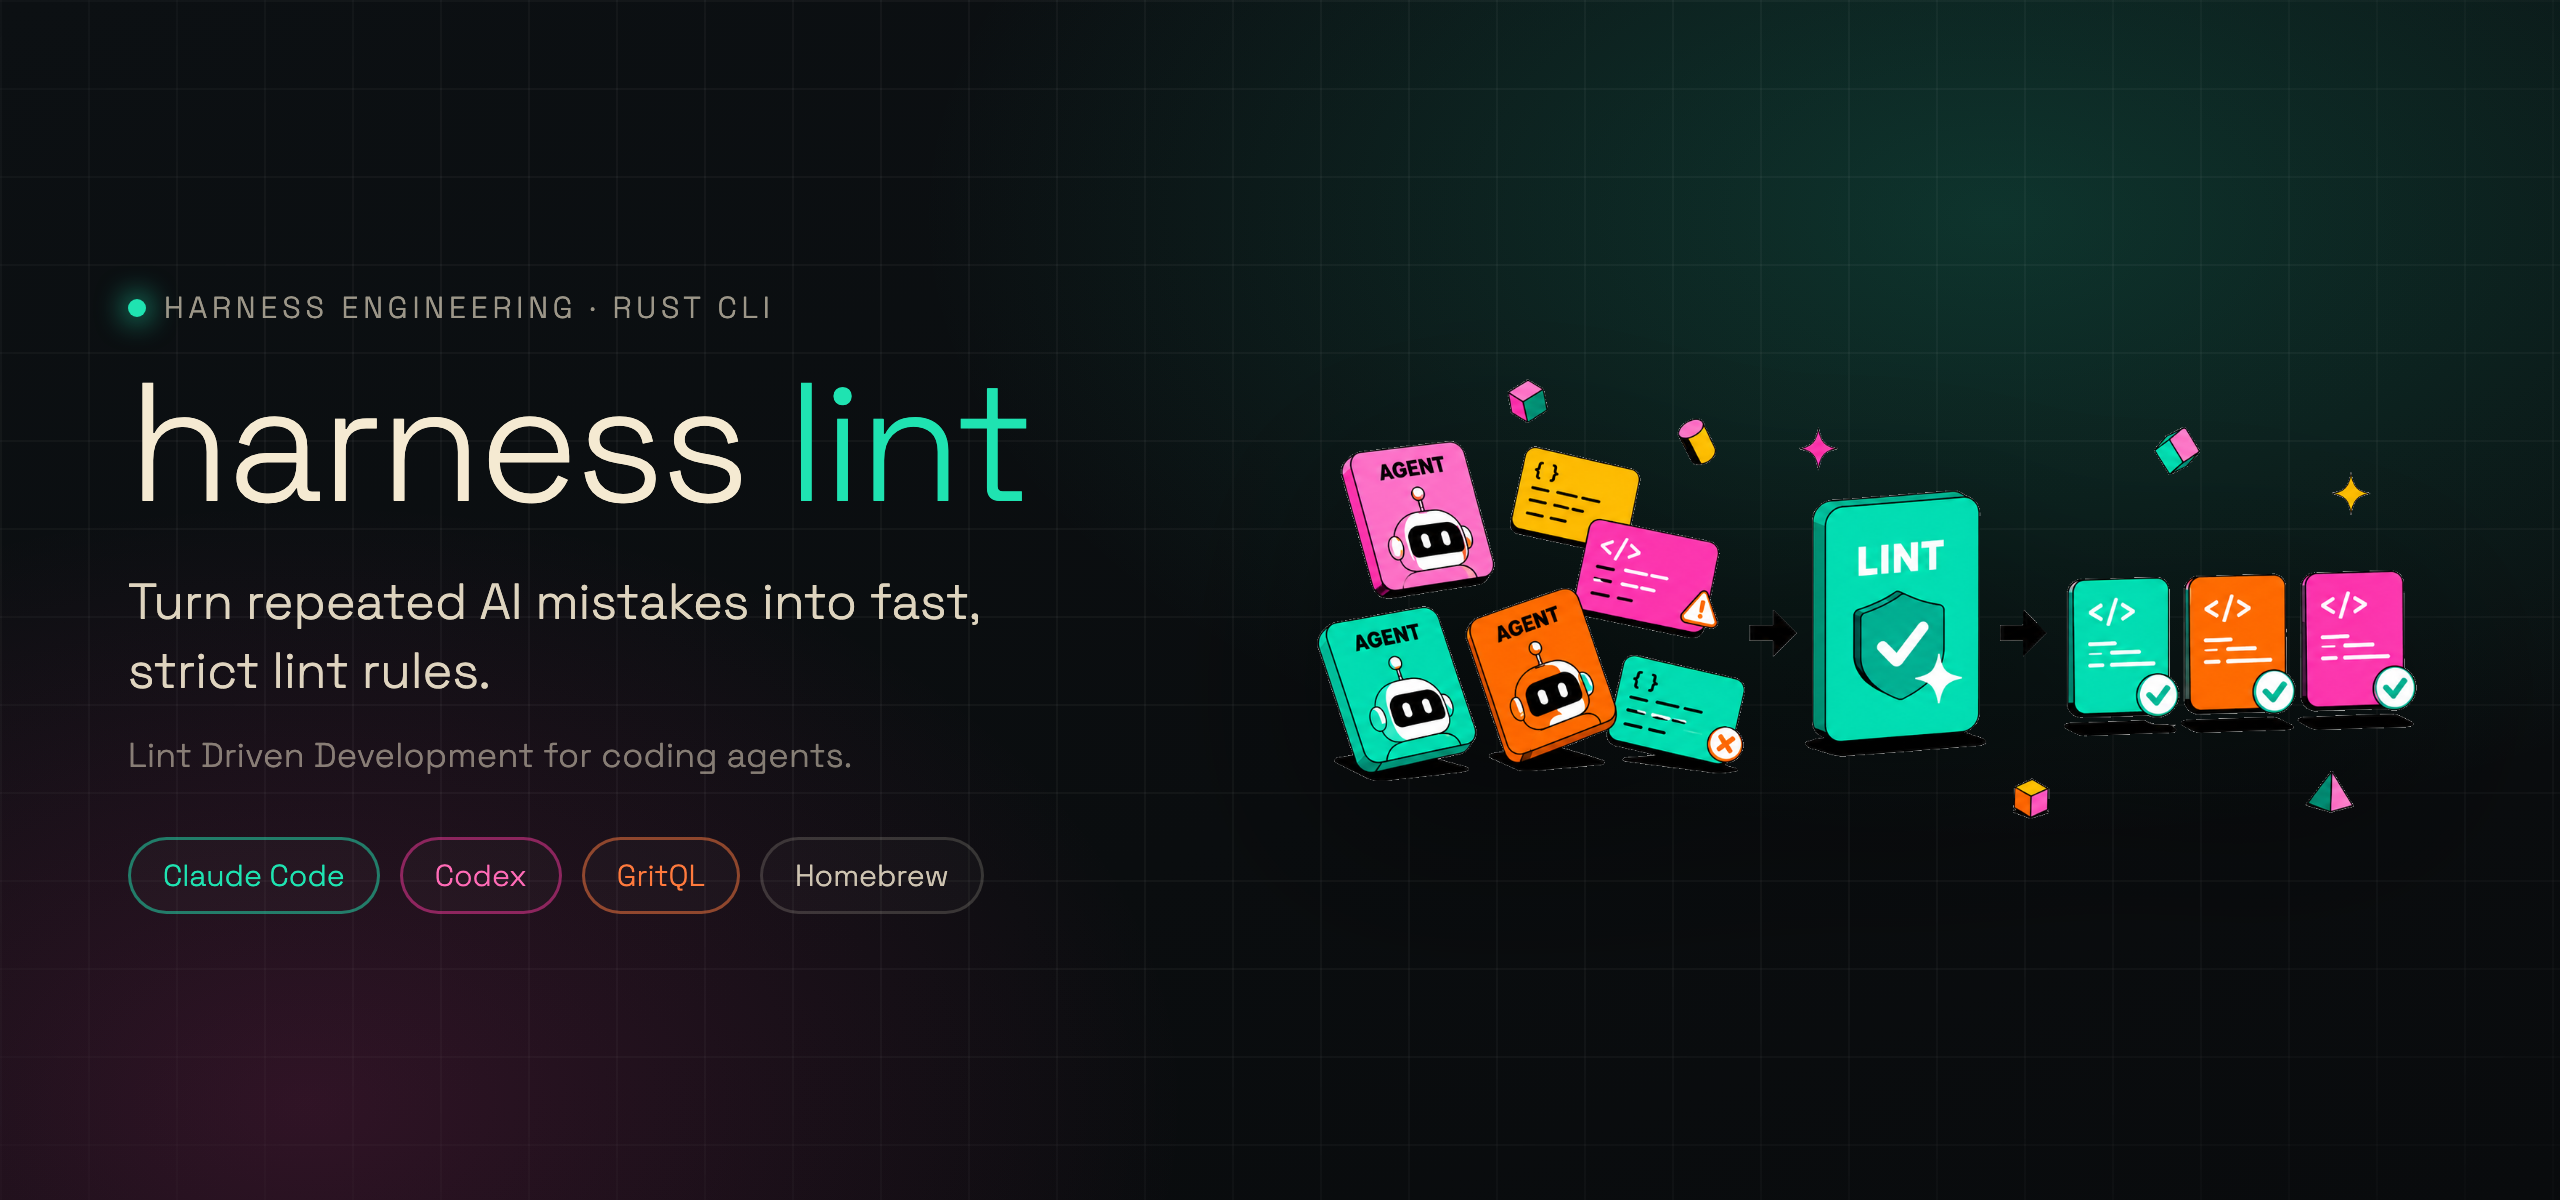
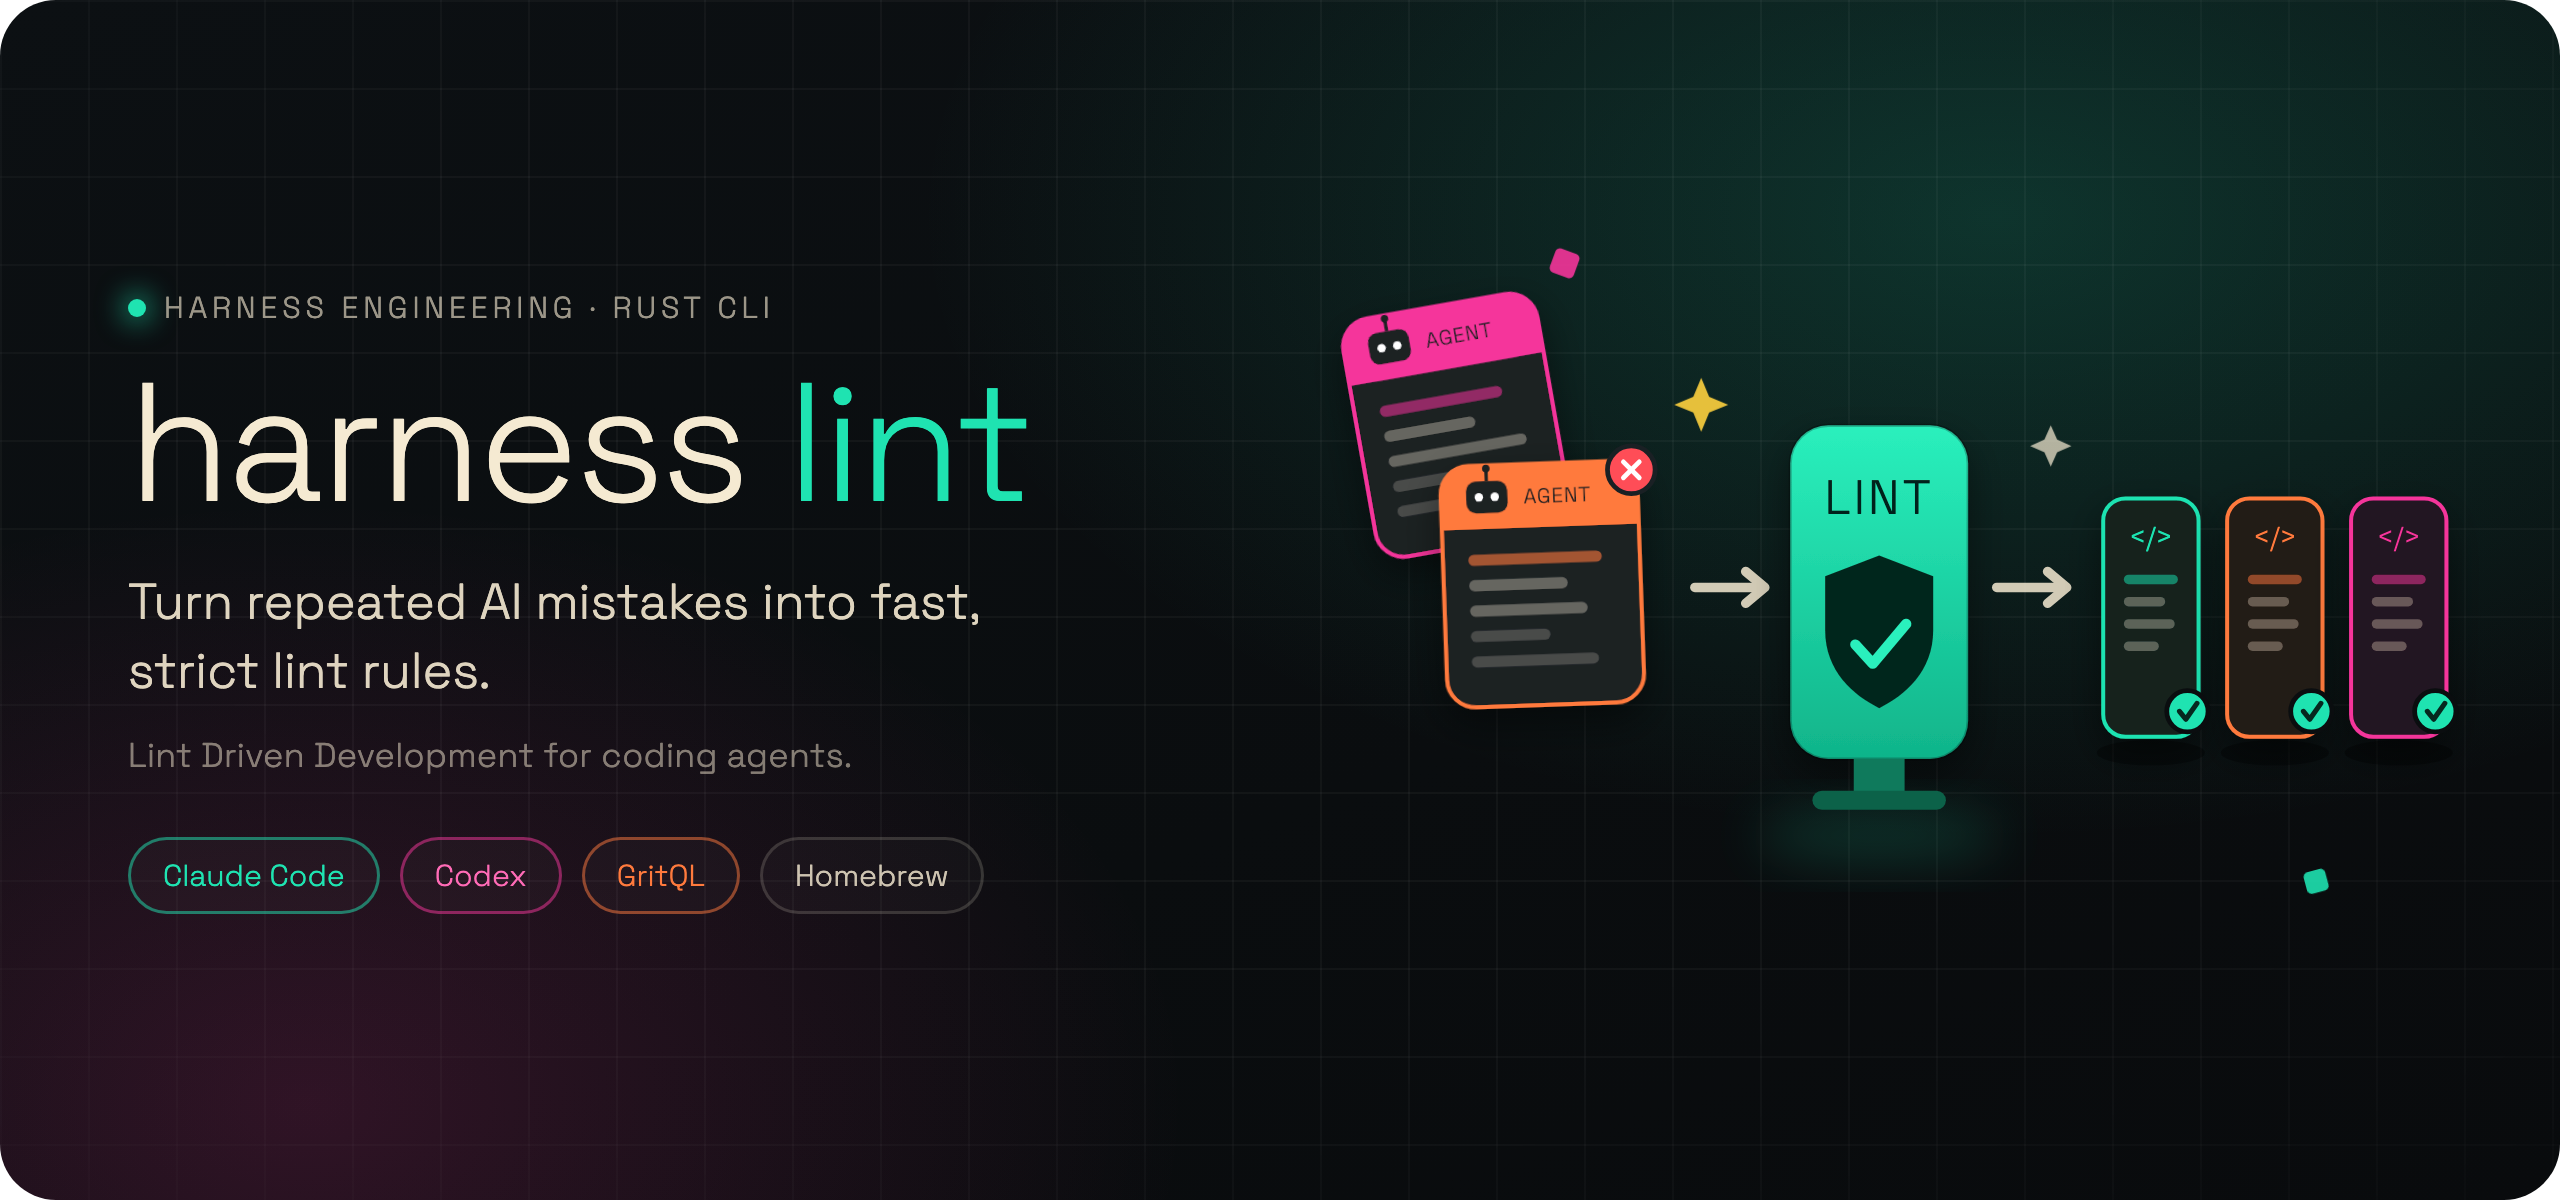
docs: redraw hero illustration as native SVG with rounded corners
Replace the imported cartoon artwork with a hand-built SVG illustration
that shares the banner's flat monoline style: scattered AGENT cards with
uneven code and an error badge, a glowing LINT gate, and clean output
cards with pass checks. Export with rounded transparent corners so the
banner reads as an intentional card on both light and dark GitHub themes
(no hard rectangular edge).

Claude-Session: https://claude.ai/code/session_012nRn9ztAujRpyAh787uXSe

diff --git a/assets/harness-lint-hero.html b/assets/harness-lint-hero.html
@@ -28,11 +28,13 @@
       body {
         margin: 0;
         padding: 0;
+        background: transparent;
       }
 
       .stage {
         width: 1280px;
         height: 600px;
+        border-radius: 28px;
         background:
           radial-gradient(
             900px 520px at 78% 18%,
@@ -51,7 +53,6 @@
         color: var(--cream);
       }
 
-      /* faint grid */
       .stage::before {
         content: "";
         position: absolute;
@@ -70,8 +71,8 @@
         display: grid;
         grid-template-columns: 1fr 1fr;
         align-items: center;
-        padding: 0 64px;
-        gap: 28px;
+        padding: 0 56px 0 64px;
+        gap: 16px;
       }
 
       .eyebrow {
@@ -159,11 +160,10 @@
         justify-content: center;
       }
 
-      .art img {
-        width: 108%;
-        max-width: none;
+      .art svg {
+        width: 100%;
         height: auto;
-        filter: drop-shadow(0 26px 50px rgba(0, 0, 0, 0.55));
+        overflow: visible;
       }
     </style>
   </head>
@@ -182,8 +182,148 @@
             <span class="chip">Homebrew</span>
           </div>
         </div>
+
         <div class="art">
-          <img src="./harness-lint-readme.illustration.png" alt="agents to lint to clean code" />
+          <svg viewBox="0 0 720 520" fill="none" xmlns="http://www.w3.org/2000/svg">
+            <defs>
+              <filter id="glow" x="-60%" y="-60%" width="220%" height="220%">
+                <feGaussianBlur stdDeviation="16" />
+              </filter>
+              <filter id="soft" x="-40%" y="-40%" width="180%" height="180%">
+                <feDropShadow dx="0" dy="10" stdDeviation="12" flood-color="#000" flood-opacity="0.45" />
+              </filter>
+              <linearGradient id="gateGrad" x1="0" y1="0" x2="0" y2="1">
+                <stop offset="0" stop-color="#2af0bd" />
+                <stop offset="1" stop-color="#10b48a" />
+              </linearGradient>
+            </defs>
+
+            <!-- ============ INPUT: messy AI output ============ -->
+            <!-- back card (magenta) -->
+            <g transform="rotate(-10 96 150)" filter="url(#soft)">
+              <rect x="34" y="74" width="124" height="152" rx="18" fill="#1a2024" stroke="#f5359b" stroke-width="2.5" />
+              <rect x="34" y="74" width="124" height="40" rx="18" fill="#f5359b" />
+              <rect x="34" y="96" width="124" height="18" fill="#f5359b" />
+              <!-- robot glyph -->
+              <rect x="50" y="84" width="26" height="20" rx="6" fill="#1a2024" />
+              <circle cx="58" cy="94" r="2.6" fill="#fff" />
+              <circle cx="68" cy="94" r="2.6" fill="#fff" />
+              <line x1="63" y1="84" x2="63" y2="78" stroke="#1a2024" stroke-width="2.2" />
+              <circle cx="63" cy="76" r="2.4" fill="#1a2024" />
+              <text x="86" y="99" font-family="Space Grotesk, sans-serif" font-size="13" font-weight="700" fill="#1a2024" letter-spacing="0.5">AGENT</text>
+              <!-- uneven code lines -->
+              <rect x="50" y="130" width="78" height="7" rx="3.5" fill="rgba(245,53,155,0.55)" />
+              <rect x="50" y="146" width="58" height="7" rx="3.5" fill="rgba(245,234,210,0.35)" />
+              <rect x="50" y="162" width="88" height="7" rx="3.5" fill="rgba(245,234,210,0.35)" />
+              <rect x="50" y="178" width="44" height="7" rx="3.5" fill="rgba(245,234,210,0.22)" />
+              <rect x="50" y="194" width="70" height="7" rx="3.5" fill="rgba(245,234,210,0.22)" />
+            </g>
+
+            <!-- front card (orange) with error -->
+            <g transform="rotate(-2 150 250)" filter="url(#soft)">
+              <rect x="88" y="174" width="124" height="152" rx="18" fill="#1a2024" stroke="#ff7a3d" stroke-width="2.5" />
+              <rect x="88" y="174" width="124" height="40" rx="18" fill="#ff7a3d" />
+              <rect x="88" y="196" width="124" height="18" fill="#ff7a3d" />
+              <rect x="104" y="184" width="26" height="20" rx="6" fill="#1a2024" />
+              <circle cx="112" cy="194" r="2.6" fill="#fff" />
+              <circle cx="122" cy="194" r="2.6" fill="#fff" />
+              <line x1="117" y1="184" x2="117" y2="178" stroke="#1a2024" stroke-width="2.2" />
+              <circle cx="117" cy="176" r="2.4" fill="#1a2024" />
+              <text x="140" y="199" font-family="Space Grotesk, sans-serif" font-size="13" font-weight="700" fill="#1a2024" letter-spacing="0.5">AGENT</text>
+              <rect x="104" y="230" width="84" height="7" rx="3.5" fill="rgba(255,122,61,0.6)" />
+              <rect x="104" y="246" width="62" height="7" rx="3.5" fill="rgba(245,234,210,0.35)" />
+              <rect x="104" y="262" width="74" height="7" rx="3.5" fill="rgba(245,234,210,0.35)" />
+              <rect x="104" y="278" width="50" height="7" rx="3.5" fill="rgba(245,234,210,0.22)" />
+              <rect x="104" y="294" width="80" height="7" rx="3.5" fill="rgba(245,234,210,0.22)" />
+            </g>
+            <!-- error badge -->
+            <g transform="translate(206 178)">
+              <circle r="15" fill="#ff4d57" stroke="#1a2024" stroke-width="3" />
+              <line x1="-5" y1="-5" x2="5" y2="5" stroke="#fff" stroke-width="3" stroke-linecap="round" />
+              <line x1="5" y1="-5" x2="-5" y2="5" stroke="#fff" stroke-width="3" stroke-linecap="round" />
+            </g>
+
+            <!-- arrow 1 -->
+            <g stroke="#f5ead2" stroke-width="6" stroke-linecap="round" stroke-linejoin="round" opacity="0.85">
+              <line x1="246" y1="252" x2="288" y2="252" />
+              <polyline points="278,242 290,252 278,262" fill="none" />
+            </g>
+
+            <!-- ============ LINT GATE ============ -->
+            <ellipse cx="362" cy="408" rx="78" ry="16" fill="#1fe3b1" opacity="0.18" filter="url(#glow)" />
+            <g filter="url(#soft)">
+              <rect x="306" y="150" width="112" height="210" rx="24" fill="url(#gateGrad)" />
+              <rect x="306" y="150" width="112" height="210" rx="24" fill="none" stroke="#0a0d0f" stroke-width="2" opacity="0.25" />
+              <text x="362" y="206" text-anchor="middle" font-family="Space Grotesk, sans-serif" font-size="30" font-weight="700" fill="#06241c" letter-spacing="2">LINT</text>
+              <!-- shield check -->
+              <path d="M362 232 l34 13 v34 c0 26 -18 41 -34 49 c-16 -8 -34 -23 -34 -49 v-34 z" fill="#06281f" />
+              <polyline points="347,288 358,300 379,275" fill="none" stroke="#2af0bd" stroke-width="6.5" stroke-linecap="round" stroke-linejoin="round" />
+            </g>
+            <!-- gate stand -->
+            <rect x="346" y="360" width="32" height="22" fill="#0f7a5c" />
+            <rect x="320" y="380" width="84" height="12" rx="6" fill="#0c6249" />
+
+            <!-- arrow 2 -->
+            <g stroke="#f5ead2" stroke-width="6" stroke-linecap="round" stroke-linejoin="round" opacity="0.85">
+              <line x1="436" y1="252" x2="478" y2="252" />
+              <polyline points="468,242 480,252 468,262" fill="none" />
+            </g>
+
+            <!-- ============ OUTPUT: clean, passing ============ -->
+            <!-- card stands -->
+            <ellipse cx="533" cy="356" rx="34" ry="8" fill="#000" opacity="0.35" />
+            <ellipse cx="611" cy="356" rx="34" ry="8" fill="#000" opacity="0.35" />
+            <ellipse cx="689" cy="356" rx="34" ry="8" fill="#000" opacity="0.35" />
+
+            <!-- output card: teal -->
+            <g filter="url(#soft)">
+              <rect x="503" y="196" width="60" height="150" rx="14" fill="#13241f" stroke="#1fe3b1" stroke-width="2.5" />
+              <text x="533" y="226" text-anchor="middle" font-family="Space Grotesk, sans-serif" font-size="17" font-weight="700" fill="#1fe3b1">&lt;/&gt;</text>
+              <rect x="516" y="244" width="34" height="6" rx="3" fill="rgba(31,227,177,0.5)" />
+              <rect x="516" y="258" width="26" height="6" rx="3" fill="rgba(245,234,210,0.32)" />
+              <rect x="516" y="272" width="32" height="6" rx="3" fill="rgba(245,234,210,0.32)" />
+              <rect x="516" y="286" width="22" height="6" rx="3" fill="rgba(245,234,210,0.32)" />
+            </g>
+            <!-- output card: orange -->
+            <g filter="url(#soft)">
+              <rect x="581" y="196" width="60" height="150" rx="14" fill="#241a14" stroke="#ff7a3d" stroke-width="2.5" />
+              <text x="611" y="226" text-anchor="middle" font-family="Space Grotesk, sans-serif" font-size="17" font-weight="700" fill="#ff7a3d">&lt;/&gt;</text>
+              <rect x="594" y="244" width="34" height="6" rx="3" fill="rgba(255,122,61,0.5)" />
+              <rect x="594" y="258" width="26" height="6" rx="3" fill="rgba(245,234,210,0.32)" />
+              <rect x="594" y="272" width="32" height="6" rx="3" fill="rgba(245,234,210,0.32)" />
+              <rect x="594" y="286" width="22" height="6" rx="3" fill="rgba(245,234,210,0.32)" />
+            </g>
+            <!-- output card: magenta -->
+            <g filter="url(#soft)">
+              <rect x="659" y="196" width="60" height="150" rx="14" fill="#241420" stroke="#f5359b" stroke-width="2.5" />
+              <text x="689" y="226" text-anchor="middle" font-family="Space Grotesk, sans-serif" font-size="17" font-weight="700" fill="#f5359b">&lt;/&gt;</text>
+              <rect x="672" y="244" width="34" height="6" rx="3" fill="rgba(245,53,155,0.5)" />
+              <rect x="672" y="258" width="26" height="6" rx="3" fill="rgba(245,234,210,0.32)" />
+              <rect x="672" y="272" width="32" height="6" rx="3" fill="rgba(245,234,210,0.32)" />
+              <rect x="672" y="286" width="22" height="6" rx="3" fill="rgba(245,234,210,0.32)" />
+            </g>
+            <!-- pass checks -->
+            <g transform="translate(556 330)">
+              <circle r="13" fill="#1fe3b1" stroke="#0a0d0f" stroke-width="3" />
+              <polyline points="-5,0 -1,5 6,-5" fill="none" stroke="#06281f" stroke-width="3.2" stroke-linecap="round" stroke-linejoin="round" />
+            </g>
+            <g transform="translate(634 330)">
+              <circle r="13" fill="#1fe3b1" stroke="#0a0d0f" stroke-width="3" />
+              <polyline points="-5,0 -1,5 6,-5" fill="none" stroke="#06281f" stroke-width="3.2" stroke-linecap="round" stroke-linejoin="round" />
+            </g>
+            <g transform="translate(712 330)">
+              <circle r="13" fill="#1fe3b1" stroke="#0a0d0f" stroke-width="3" />
+              <polyline points="-5,0 -1,5 6,-5" fill="none" stroke="#06281f" stroke-width="3.2" stroke-linecap="round" stroke-linejoin="round" />
+            </g>
+
+            <!-- ============ floating accents ============ -->
+            <g opacity="0.9">
+              <path d="M250 120 l5 12 12 5 -12 5 -5 12 -5 -12 -12 -5 12 -5 z" fill="#ffd23f" />
+              <path d="M470 150 l4 9 9 4 -9 4 -4 9 -4 -9 -9 -4 9 -4 z" fill="#f5ead2" opacity="0.8" />
+              <rect x="156" y="40" width="16" height="16" rx="3" fill="#f5359b" transform="rotate(20 164 48)" />
+              <rect x="630" y="430" width="14" height="14" rx="3" fill="#1fe3b1" transform="rotate(-15 637 437)" />
+            </g>
+          </svg>
         </div>
       </div>
     </div>